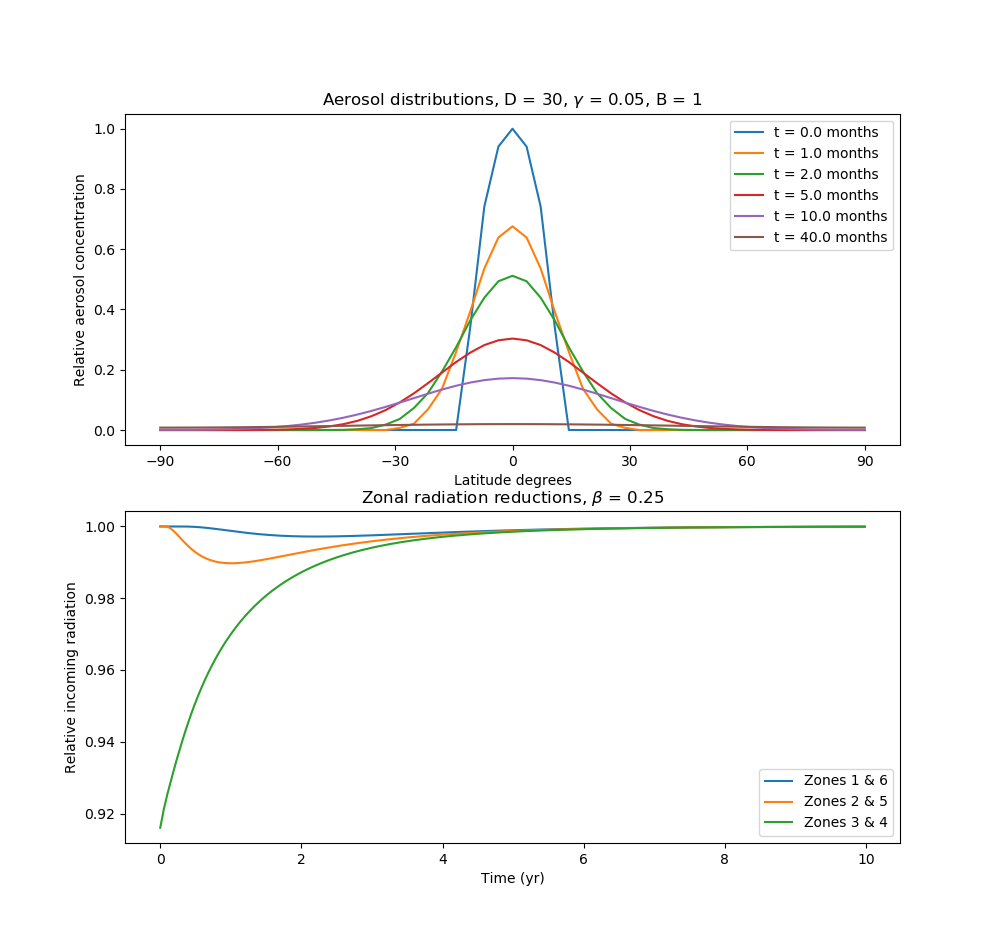
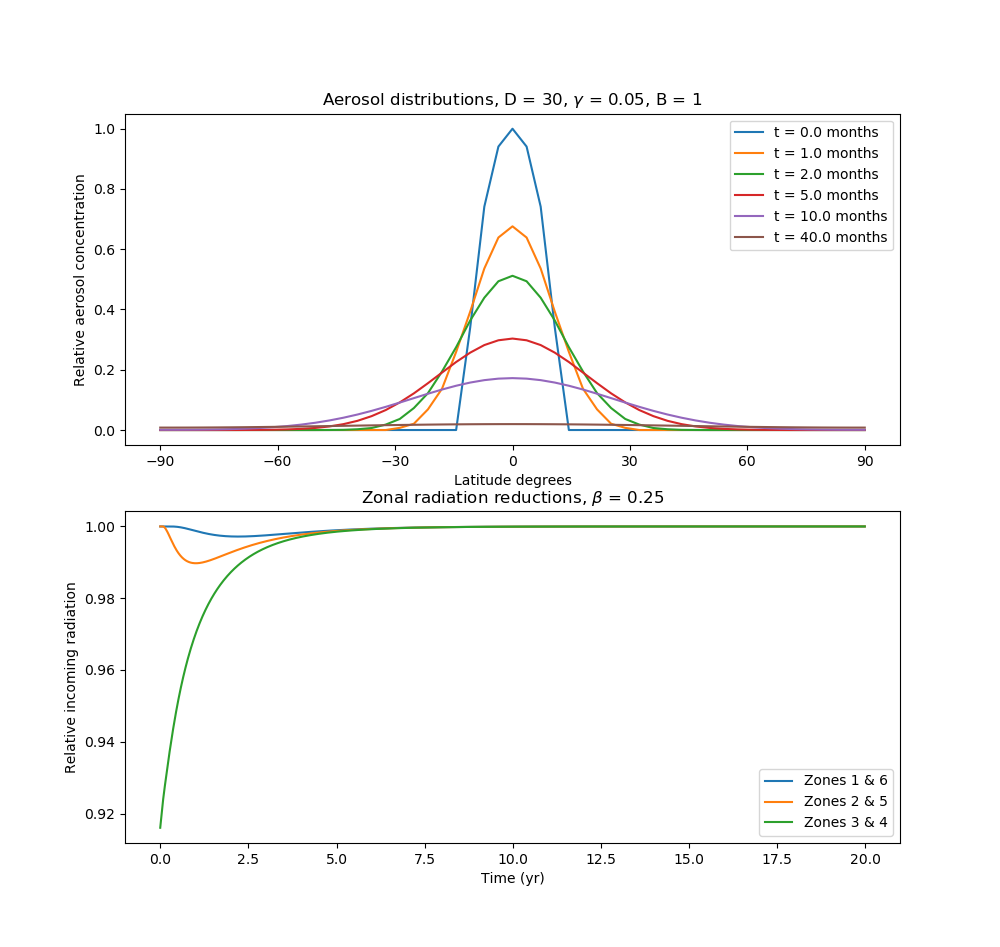
no forcing figure

diff --git a/utilities/volcanicforcing.py b/utilities/volcanicforcing.py
@@ -98,7 +98,7 @@ def create_phi_funcs(tt_max):
             xrange = (x>=j*30)*(x<=(j+1)*30)
             phi_k[j+3,i] = np.mean(phi_continuous[xrange,i]) # Calculate zonal average
     
-    plot_forcing(t,A,phi_k)
+    # plot_forcing(t,A,phi_k)
 
     t_span_long = np.arange(t_end,t_end_long,dt_long)
     phi_extension = np.array(list(map(lambda k: 1-(1-phi_k[k,-1])*np.exp(Gamma*t[-1])*np.exp(-Gamma*t_span_long),range(6))))

diff --git a/main.py b/main.py
@@ -2,8 +2,8 @@ from utilities.plotters import *
 
 def main():    
     plt.figure(1,figsize=(10,7))
-    # plot_model()
-    plot_model_withforcing()
+    plot_model()
+    # plot_model_withforcing()
     #plot_2d_model()
     #animate_2d_model(save=True)
      #plot_albedo()
